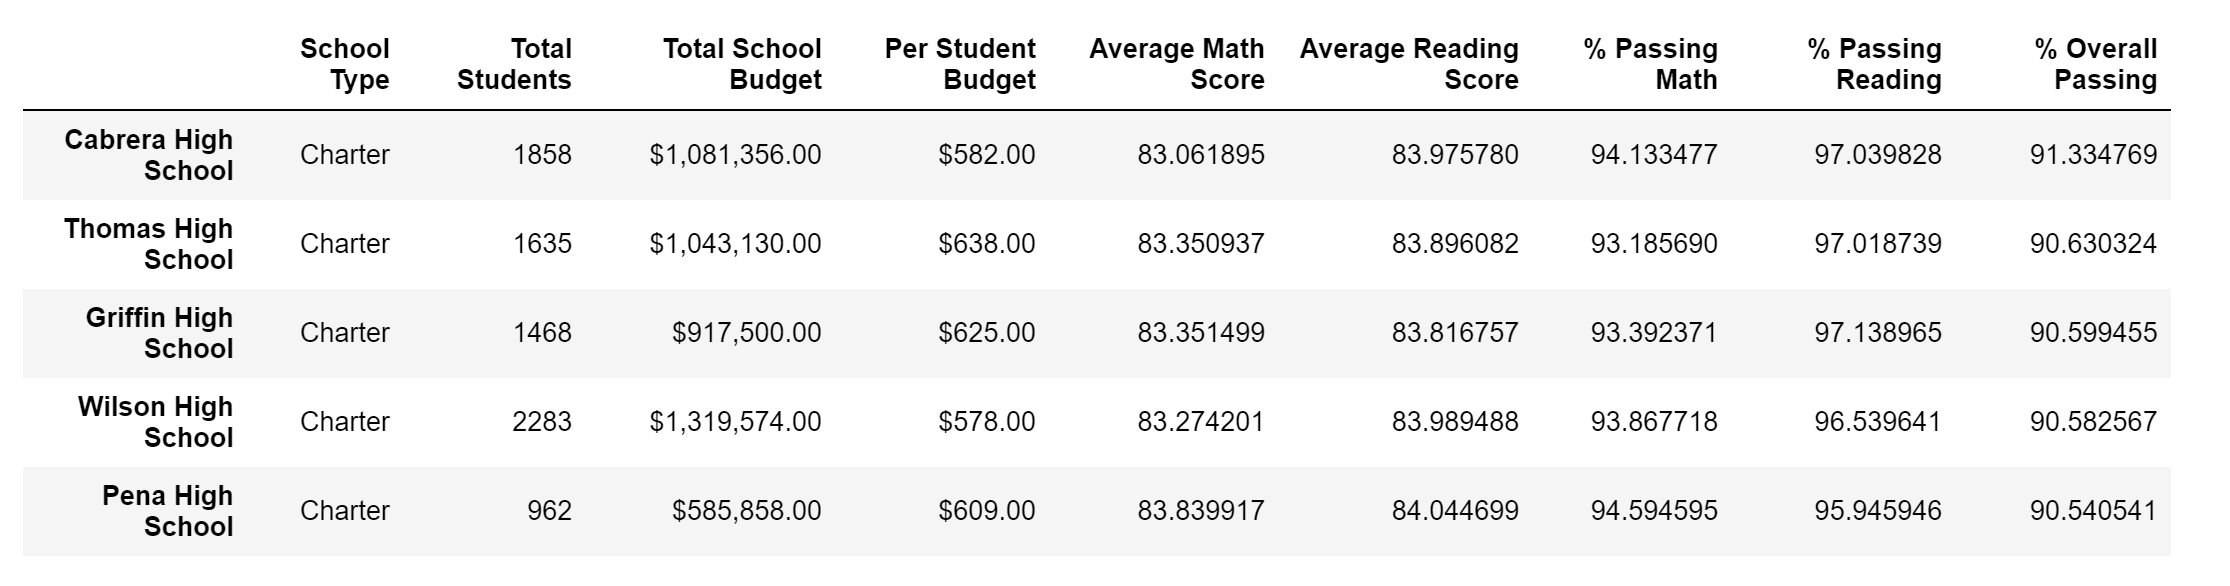
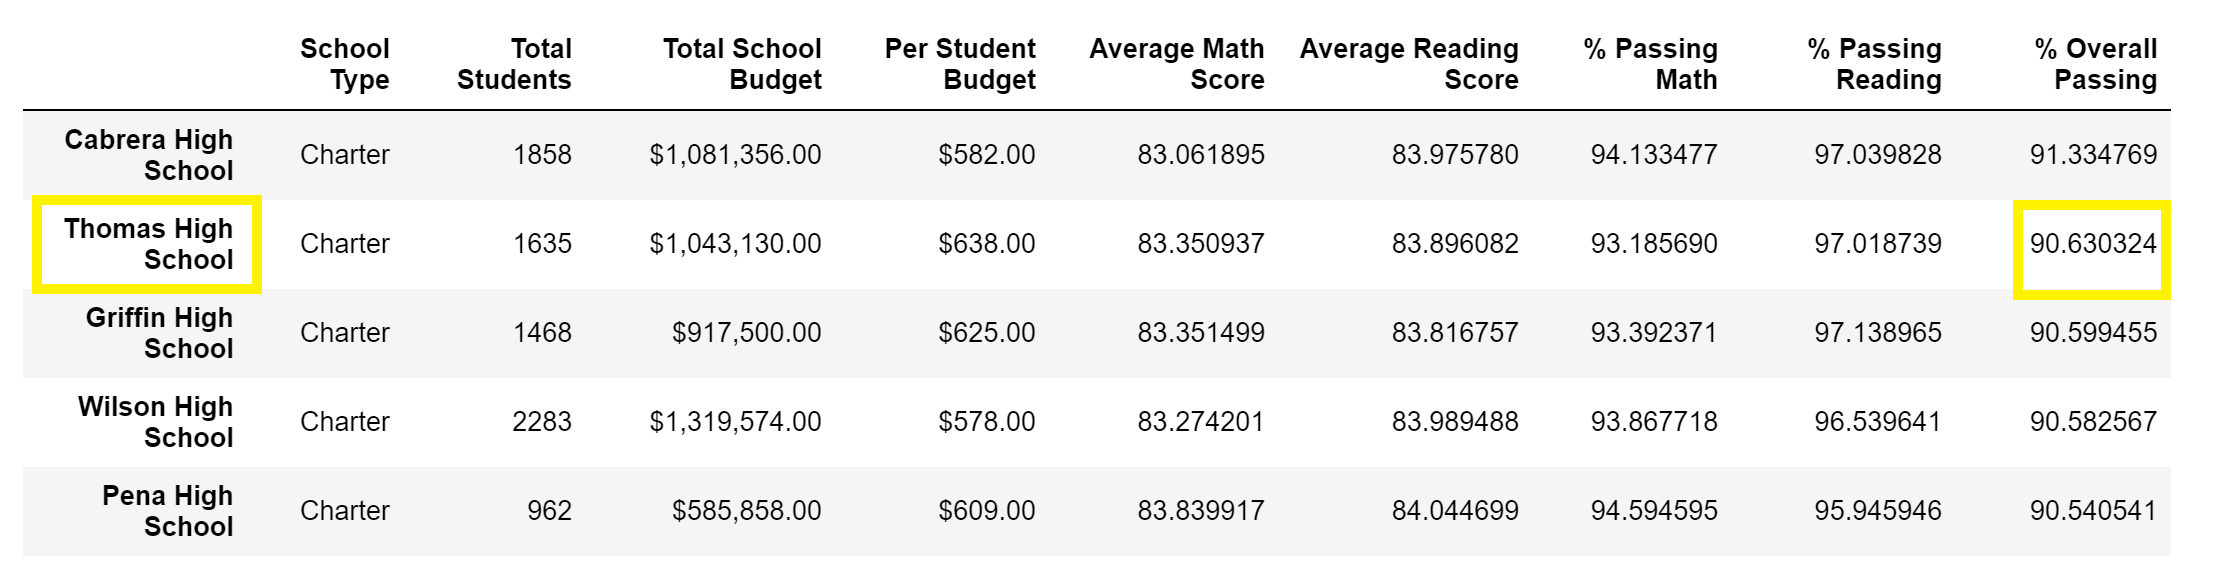
Final Analysis

Changed region(s): [[0.0, 0.3072, 0.1238, 0.5222], [0.8973, 0.3379, 0.9901, 0.5222]]

diff --git a/README.md b/README.md
@@ -1,23 +1,42 @@
 # School District Analysis
 
 ## Overview
-The purpose of this analysis is to provide key metrics for the school district.  And in light of the issue with 9th grade test scores for Thomas High School, to exclude that data when writing code and completing the analysis.  The following section will cover the key metrics and observations regarding the the effect of excluding the 9th grade Thomas High School data. 
+The purpose of this analysis is to provide key metrics for the school district.  And in light of the issue with 9th grade test scores for Thomas High School, to exclude that data when running the code and completing the analysis.  The following section will cover the key metrics and observations regarding the the effect of excluding the 9th grade Thomas High School(THS) data. 
 
 ## Results
 
 ### Top 5
+The top 5 performing schools did not change after the THS data was ignored.  They are still the second highest performing school, although, their overall passing percentage did drop slightly.  See the image below for the change in average.
+
+![Top 5 - Pre](https://myoctocat.com/assets/images/base-octocat.svg)
+![Top 5 - Pre](https://myoctocat.com/assets/images/base-octocat.svg)
 
 ### Bottom 5
+The bottom 5 performing schools (% Overall Passing) was not affected by the exclusion of THS data.
+
+![Bottom 5](https://myoctocat.com/assets/images/base-octocat.svg)
 
 ### Math Scores by Grade Level
 
+![Math By Grade](https://myoctocat.com/assets/images/base-octocat.svg)
+
 ### Reading Scores by Grade Level
+
+
+![Reading By Grade](https://myoctocat.com/assets/images/base-octocat.svg)
 
 ### School Performance - Budget per Student
 
+
+![Per Student Budget](https://myoctocat.com/assets/images/base-octocat.svg)
+
 ### School Performance - Size
 
+![School Size](https://myoctocat.com/assets/images/base-octocat.svg)
+
 ### School Performance - Type of School
+
+![School Type](https://myoctocat.com/assets/images/base-octocat.svg)
 Top 5 and bottom 5 performing schools, based on the overall passing rate
 
 The average math score received by students in each grade level at each school
@@ -32,3 +51,12 @@ School performance based on the type of school
 
 
 ## Summary
+
+Thomas was still the 2nd highest performing school.
+Their average scores for reading, math, and overall passing went down, but not a significant 'amount'
+
+Should the student count be the same after exluding 9th grade scores?
+Charter schools performed better.
+Smaller schools, which were all charters, performed better. 
+The budget was higher for poor performing schools
+
